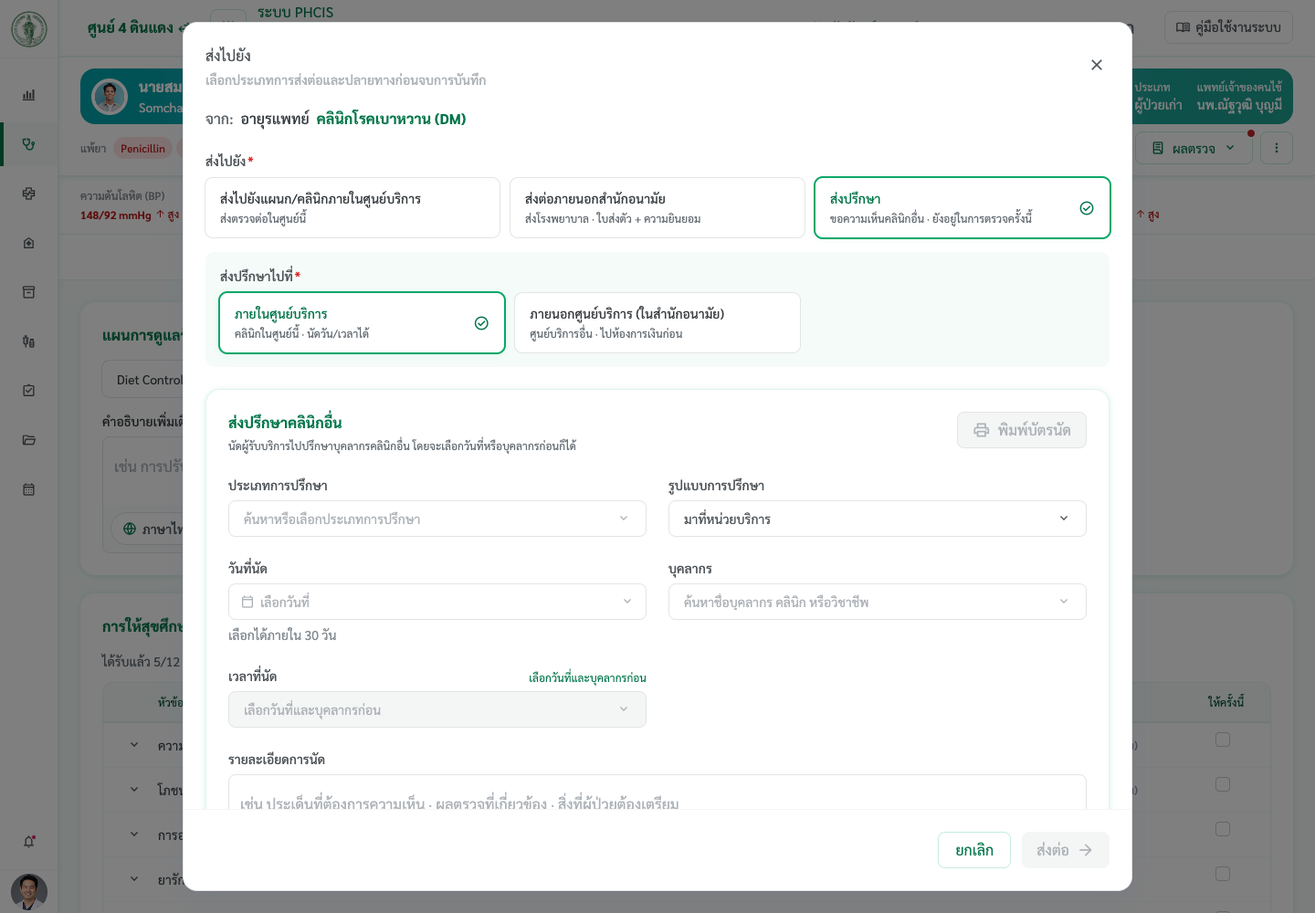
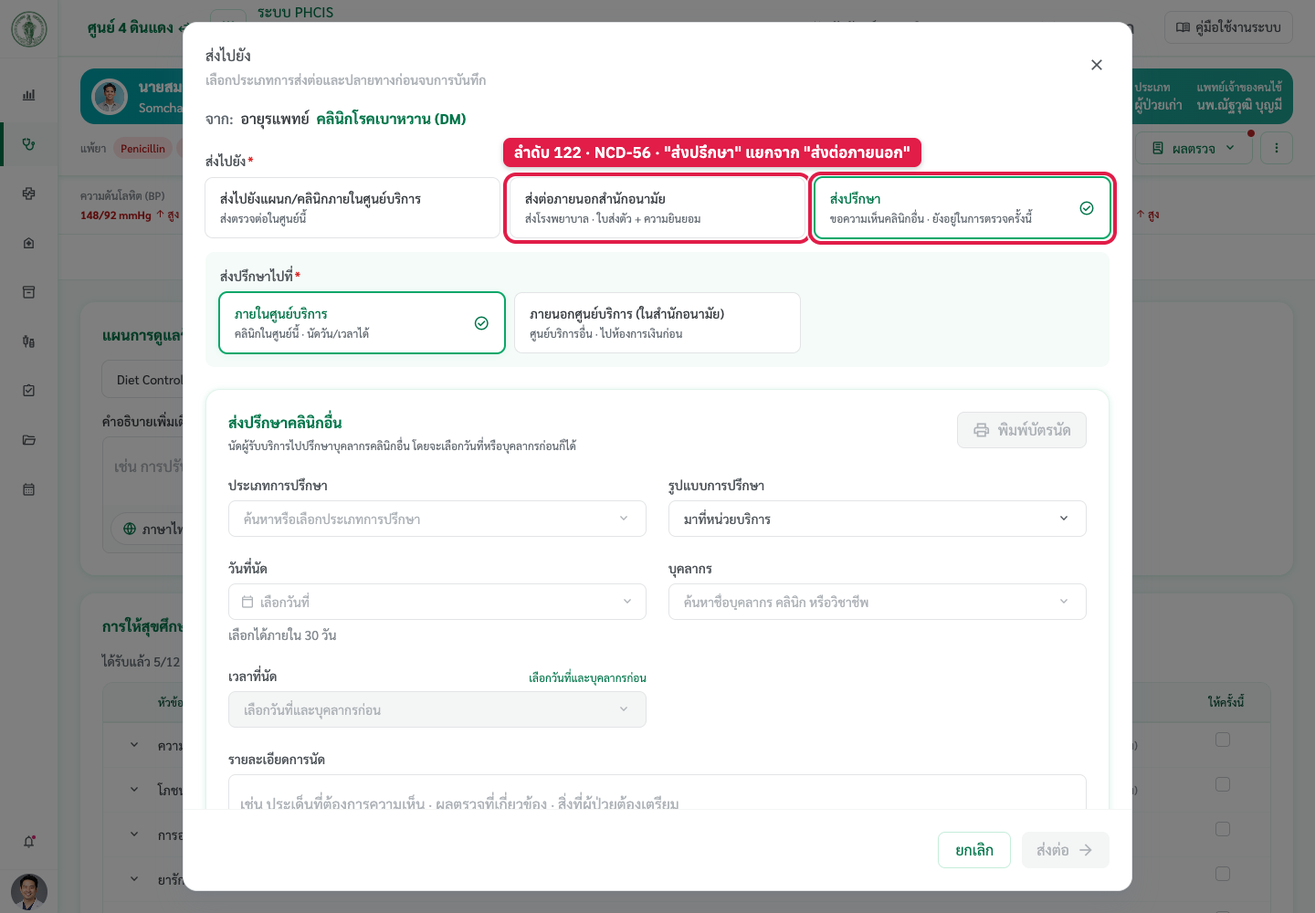
Consolidated Checklist คทง.3: ใช้ชื่อไฟล์ชีตเป็นหัวหน้า · ภาพทุกภาพวงกรอบแดง + ป้ายตรงจุดที่แก้ · ถ่ายใหม่ 105 และโปรไฟล์ · ตัดภาพหน้าการติดตามการดูแลเดิมและข้อ 133–136

Changed region(s): [[0.375, 0.124, 0.8438, 0.217], [0.375, 0.248, 0.8438, 0.279]]

diff --git a/tor-ncd-101-136.html b/tor-ncd-101-136.html
@@ -3,7 +3,7 @@
 <head>
 <meta charset="utf-8" />
 <meta name="viewport" content="width=device-width, initial-scale=1" />
-<title>TOR คทง.3 ลำดับ 101–136</title>
+<title>Consolidated Checklist คทง.3</title>
 <link rel="preconnect" href="https://fonts.googleapis.com" />
 <link rel="preconnect" href="https://fonts.gstatic.com" crossorigin />
 <link href="https://fonts.googleapis.com/css2?family=Sarabun:wght@400;500;700&display=swap" rel="stylesheet" />
@@ -47,8 +47,9 @@
 <body>
 <main class="page">
   <header>
-    <h1>TOR checklist คทง.3 ลำดับ 101–136</h1>
-    <p class="lede">คลินิกเบาหวาน/ความดัน + จุดคัดกรองกลาง (Fast Track · LMP · แพ้ยา/แพ้อาหาร · ระยะเวลาที่มีอาการ) · ข้อความใน Excel · แก้อะไร · ดูยังไงทีละขั้น · ภาพจากระบบจริง (ข้อมูลผู้ป่วยตัวอย่าง) · อัปเดต 9 พ.ย. 2569 (รอบ 4: ลำดับ 103 · 110 ตัดสินแล้ว (110ก) · ข้อ 133–136 ทีมน้องดูแล จึงไม่อยู่ในหน้านี้)</p>
+    <h1>ทะเบียนรายการปรับปรุง UI/UX ฉบับรวม (Consolidated Checklist) — คณะทำงานที่ 3 การประชุมทบทวนระบบงาน คณะทำงานที่ 3 (20 ต.ค. 69)</h1>
+    <p class="lede" style="margin-top: var(--dim-space-100, 4px);">ลำดับ 101–132</p>
+    <p class="lede">คลินิกเบาหวาน/ความดัน + จุดคัดกรองกลาง (Fast Track · LMP · แพ้ยา/แพ้อาหาร · ระยะเวลาที่มีอาการ) · ข้อความใน Excel · แก้อะไร · ดูยังไงทีละขั้น · ภาพจากระบบจริง (ข้อมูลผู้ป่วยตัวอย่าง) วงกรอบแดงตรงจุดที่แก้ · อัปเดต 9 พ.ย. 2569 (รอบ 4: ลำดับ 103 · 110 ตัดสินแล้ว (110ก) · ข้อ 133–136 ทีมน้องดูแล จึงไม่อยู่ในหน้านี้)</p>
   </header>
   <div class="legend"><span class="chip c-green">ทำแล้ว · ทดสอบแล้ว</span><span class="chip c-blue">มีอยู่แล้ว ไม่ได้แก้</span><span class="chip c-orange">ไม่ทำ (ผู้ใช้ตัดสินใจ)</span></div>
   <div class="tbl"><table><thead><tr><th>ลำดับ</th><th>รหัส</th><th>หัวข้อ</th><th>ผล</th></tr></thead><tbody><tr><td class="code"><a href="#r101">101</a></td><td class="code">NCD-44</td><td>การบันทึกสัญญาณชีพ (Vital Signs) กรณี &#x27;ไม่ได้วัด&#x27; และ &#x27;วัดไม่ได้&#x27;</td><td><span class="chip nw c-blue">มีอยู่แล้ว</span></td></tr><tr><td class="code"><a href="#r102">102</a></td><td class="code">NCD-45</td><td>ช่องทาง Fast Track ที่จุดคัดกรองกลาง/ตู้ Kiosk สำหรับผู้ป่วยเร่งด่วน</td><td><span class="chip nw c-green">ทำแล้ว · ทดสอบแล้ว</span></td></tr><tr><td class="code"><a href="#r103">103</a></td><td class="code">NCD-46</td><td>กราฟแสดงผลความดันโลหิต (BP Graph)</td><td><span class="chip nw c-blue">มีอยู่แล้ว · แก้เพิ่ม</span></td></tr><tr><td class="code"><a href="#r104">104</a></td><td class="code">OPD-07</td><td>สถานะประจำเดือน (LMP): Default &#x27;หมดประจำเดือน&#x27; จาก Visit ก่อนหน้า</td><td><span class="chip nw c-green">ทำแล้ว · ทดสอบแล้ว</span></td></tr><tr><td class="code"><a href="#r105">105</a></td><td class="code">OPD-08</td><td>แยกช่องบันทึก &#x27;แพ้ยา&#x27; และ &#x27;แพ้อาหาร&#x27; ออกจากกัน</td><td><span class="chip nw c-blue">มีอยู่แล้ว</span></td></tr><tr><td class="code"><a href="#r107">107</a></td><td class="code">NCD-46</td><td>กราฟแสดงผลความดันโลหิต (BP Graph)</td><td><span class="chip nw c-green">ทำแล้ว · ทดสอบแล้ว</span></td></tr><tr><td class="code"><a href="#r108">108</a></td><td class="code">NCD-47</td><td>การบันทึกประวัติเจ็บป่วยเดิมและประวัติครอบครัว</td><td><span class="chip nw c-blue">มีอยู่แล้ว</span></td></tr><tr><td class="code"><a href="#r109">109</a></td><td class="code">NCD-48</td><td>การปรับปรุงหน้าจอขึ้นทะเบียนโรคเรื้อรัง</td><td><span class="chip nw c-green">ทำแล้ว · ทดสอบแล้ว</span></td></tr><tr><td class="code"><a href="#r110">110</a></td><td class="code">OPD-10</td><td>ฟิลด์ระยะเวลาที่มีอาการ (Chief Complaint Duration) ในหน้าคัดกรองกลางเป็น Textbox</td><td><span class="chip nw c-blue">มีอยู่แล้ว · ตัดสินแล้ว</span></td></tr><tr><td class="code"><a href="#r111">111</a></td><td class="code">NCD-50</td><td>การลงรหัสการวินิจฉัยโรค (ICD-10)</td><td><span class="chip nw c-blue">มีอยู่แล้ว</span></td></tr><tr><td class="code"><a href="#r112">112</a></td><td class="code">NCD-51</td><td>เปิดสิทธิ์ให้พยาบาลช่วยลงรหัสโรค ICD-10 ได้</td><td><span class="chip nw c-blue">มีอยู่แล้ว</span></td></tr><tr><td class="code"><a href="#r113">113</a></td><td class="code">NCD-52</td><td>ลำดับขั้นตอนงานตรวจ: สั่งยา/หัตถการในหน้าเดียวกับตรวจและวินิจฉัย และย้ายการบันทึกนัดหมายไปหน้า &#x27;แผนการดูแลรักษา&#x27;</td><td><span class="chip nw c-green">ทำแล้ว</span></td></tr><tr><td class="code"><a href="#r114">114</a></td><td class="code">NCD-53</td><td>เหตุผลในการสั่งจ่ายและปรับเปลี่ยนยา (Medication Adjustment Reason)</td><td><span class="chip nw c-blue">มีอยู่แล้ว</span></td></tr><tr><td class="code"><a href="#r115">115</a></td><td class="code">NCD-54</td><td>หน้าหลักแสดงเฉพาะสรุปผลตรวจที่ผิดปกติ และแจ้งเตือนสีแดงกรณีตรวจตา/ตรวจเท้าผิดปกติ</td><td><span class="chip nw c-blue">มีอยู่แล้ว</span></td></tr><tr><td class="code"><a href="#r116">116</a></td><td class="code">NCD-55</td><td>แบบฟอร์มตรวจตา: เพิ่ม Plan Repeat และย้ายข้อความเงื่อนไขส่งต่อพบจักษุแพทย์มาไว้ในหน้าตรวจตา</td><td><span class="chip nw c-green">ทำแล้ว · ทดสอบแล้ว</span></td></tr><tr><td class="code"><a href="#r122">122</a></td><td class="code">NCD-56</td><td>แยกคำศัพท์ &#x27;ส่งปรึกษา&#x27; (Consultation) และ &#x27;ส่งต่อ&#x27; (Referral) เป็น 2 ระบบ</td><td><span class="chip nw c-blue">มีอยู่แล้ว</span></td></tr><tr><td class="code"><a href="#r132">132</a></td><td class="code">NCD-57</td><td>หน้าจอรายงานคลินิกเบาหวาน/ความดัน: ตัดตัวเลขข้อหัวข้อ (เช่น 5, 8.1.1) ออก</td><td><span class="chip nw c-green">ทำแล้ว · ทดสอบแล้ว</span></td></tr></tbody></table></div>
@@ -82,7 +83,7 @@
 • ปรับสเกลกราฟอัตโนมัติ (Auto Scale)
 • กดขยายเต็มหน้าจอได้
 • แยกแสดงผลรายเดือน (12 เดือน)
-• เรียกดูข้อมูลย้อนหลังข้ามปีงบประมาณได้</blockquote><hr><p class="gh">แก้อะไร</p><p>เพิ่มมุมมอง &quot;รายเดือน (12 เดือน)&quot; · ปุ่มขยายกราฟเต็มจอ · ปุ่ม &quot;ดูกราฟความดันเต็มจอ&quot; ในหน้าการติดตามการดูแล · ปรับสเกลอัตโนมัติมีอยู่เดิม</p><hr><p class="gh">ดูยังไง</p><ol class="steps"><li>เข้าระบบเป็นแพทย์คลินิกเบาหวาน</li><li>เปิดหน้าบันทึกผู้ป่วย HN 67-00001 (/clinic/diabetes/record)</li><li>เอาเมาส์ชี้ค่า &quot;ความดันโลหิต (BP)&quot; บนแถบสัญญาณชีพ → กล่องกราฟทั้งปีขึ้น</li><li>กด &quot;รายเดือน (12 เดือน)&quot; เพื่อดูรายเดือน · เลือก &quot;ปี พ.ศ.&quot; เพื่อย้อนหลัง</li><li>กดไอคอนขยาย ⤢ ข้างปุ่ม &quot;วัดซ้ำ&quot; → กราฟเต็มจอ</li><li>อีกทาง: ในหน้าบันทึกเดียวกัน กด ⋮ → &quot;การติดตามการดูแล&quot; → ปุ่ม &quot;ความดันโลหิต&quot; → &quot;ดูกราฟความดันเต็มจอ</li></ol><hr><p class="gh">หมายเหตุ</p><p>ย้อนหลังเป็นปี พ.ศ. (ม.ค.–ธ.ค.) 10 ปี ไม่ใช่ปีงบประมาณ ตามที่ผู้ใช้กำหนด 22/25 ต.ค. 69 (ใหม่กว่ามติ 20 ต.ค. ซึ่งเขียนว่า &quot;ข้ามปี&quot;)</p><hr><p class="gh">ภาพหน้าจอ</p><div class="shots"><figure><a href="tor-shots/ncd-101-136/107-bp-graph-tooltip.png" target="_blank" rel="noopener"><img src="tor-shots/ncd-101-136/107-bp-graph-tooltip.png" alt="ชี้ค่า BP บนแถบสัญญาณชีพ · ปุ่มรายครั้ง/รายเดือน · ปุ่มขยาย ⤢"></a><figcaption>ชี้ค่า BP บนแถบสัญญาณชีพ · ปุ่มรายครั้ง/รายเดือน · ปุ่มขยาย ⤢</figcaption></figure><figure><a href="tor-shots/ncd-101-136/107-bp-graph-fullscreen.png" target="_blank" rel="noopener"><img src="tor-shots/ncd-101-136/107-bp-graph-fullscreen.png" alt="กราฟเต็มจอ มุมมองรายเดือน (12 เดือน)"></a><figcaption>กราฟเต็มจอ มุมมองรายเดือน (12 เดือน)</figcaption></figure><figure><a href="tor-shots/ncd-101-136/107-followup-bp-button.png" target="_blank" rel="noopener"><img src="tor-shots/ncd-101-136/107-followup-bp-button.png" alt="หน้าการติดตามการดูแล · ปุ่ม &quot;ดูกราฟความดันเต็มจอ&quot;"></a><figcaption>หน้าการติดตามการดูแล · ปุ่ม &quot;ดูกราฟความดันเต็มจอ&quot;</figcaption></figure></div></div><div class="card" id="r108"><div class="head"><div><h2>ลำดับ 108 · NCD-47</h2><p class="sum">การบันทึกประวัติเจ็บป่วยเดิมและประวัติครอบครัว</p></div><span class="chip c-blue">มีอยู่แล้ว</span></div><hr><p class="gh">ข้อความใน Excel</p><blockquote>การบันทึกประวัติเจ็บป่วยเดิมและประวัติครอบครัว : เห็นควรให้เพิ่มช่องบันทึกประวัติผู้ป่วยในอดีต (Patient History) และประวัติครอบครัว (Family History) ให้สามารถระบุรายละเอียดพร้อมเชื่อมโยงไปยังผังเครือญาติ (Family Tree) โดยให้ระบบดึงข้อมูลประวัติเดิมมาแสดงโดยอัตโนมัติทุกครั้ง</blockquote><p class="sum">ข้อความในชีตถูกตัดตอนส่งมา — ข้อความนี้มาจากรายงานประชุม คทง.3 ครั้งที่ 5/2569 (20 ต.ค. 69) หน้า 3 ข้อ 2.2</p><hr><p class="gh">แก้อะไร</p><p>ไม่ได้แก้ (ทำไว้ตั้งแต่ 22 ต.ค. 69): ช่อง Past History · Family History + ปุ่มดูข้อมูลครอบครัว</p><hr><p class="gh">ดูยังไง</p><ol class="steps"><li>เข้าระบบเป็นแพทย์คลินิกเบาหวาน</li><li>เปิดหน้าบันทึกผู้ป่วย HN 67-00001</li><li>กด &quot;ถัดไป: ตรวจและวินิจฉัย</li><li>แท็บ &quot;บันทึกการตรวจรักษา&quot; → ช่อง &quot;ประวัติการเจ็บป่วยในอดีต (Past History)&quot; และ &quot;ประวัติครอบครัว (Family History)&quot; · ปุ่ม &quot;ดูข้อมูลครอบครัว</li></ol><hr><p class="gh">หมายเหตุ</p><p>ข้อความในชีตถูกตัดตอนส่งมา ใช้ข้อความรายงานประชุม หน้า 3 ข้อ 2.2</p><hr><p class="gh">ภาพหน้าจอ</p><div class="shots"><figure><a href="tor-shots/ncd-101-136/108-past-family-history.png" target="_blank" rel="noopener"><img src="tor-shots/ncd-101-136/108-past-family-history.png" alt="Past History · Family History + &quot;ดูข้อมูลครอบครัว&quot;"></a><figcaption>Past History · Family History + &quot;ดูข้อมูลครอบครัว&quot;</figcaption></figure></div></div><div class="card" id="r109"><div class="head"><div><h2>ลำดับ 109 · NCD-48</h2><p class="sum">การปรับปรุงหน้าจอขึ้นทะเบียนโรคเรื้อรัง</p></div><span class="chip c-green">ทำแล้ว · ทดสอบแล้ว</span></div><hr><p class="gh">ข้อความใน Excel</p><blockquote>การปรับปรุงหน้าจอขึ้นทะเบียนโรคเรื้อรัง : เห็นควรให้เปลี่ยนชื่อหน้าจอเป็น &quot;ขึ้นทะเบียนผู้ป่วยโรคเบาหวาน/ความดันโลหิตสูง&quot; พร้อมปรับแก้ไขช่องข้อมูล &quot;ปีที่วินิจฉัย&quot; เป็น &quot;พ.ศ. ที่วินิจฉัย&quot; โดยจัดวางไว้ภายใต้หัวข้อประเภทผู้ป่วย รูปแบบการกรอกข้อมูลเป็นรายการตัวเลือก (Dropdown) เพื่อให้สามารถคำนวณตัวเลข พ.ศ. ได้ และให้ระบบแสดงสรุปจำนวนปีที่เจ็บป่วยด้วยโรคดังกล่าวโดยอัตโนมัติ</blockquote><p class="sum">ข้อความในชีตถูกตัดตอนส่งมา — ข้อความนี้มาจากรายงานประชุม คทง.3 ครั้งที่ 5/2569 หน้า 3 ข้อ 2.2</p><hr><p class="gh">แก้อะไร</p><p>ชื่อป๊อปอัปเป็น &quot;ขึ้นทะเบียนผู้ป่วยโรคเบาหวาน/ความดันโลหิตสูง&quot; · ช่อง &quot;พ.ศ. ที่วินิจฉัย&quot; (dropdown) ต่อจากประเภทผู้ป่วย · แสดง &quot;ป่วยมาแล้ว N ปี&quot; อัตโนมัติ</p><hr><p class="gh">ดูยังไง</p><ol class="steps"><li>เข้าระบบเป็นแพทย์คลินิกเบาหวาน</li><li>เปิดหน้าบันทึกผู้ป่วย HN 67-00001</li><li>กดปุ่ม &quot;ขึ้นทะเบียนผู้ป่วยใหม่&quot; บนการ์ดผู้ป่วย</li><li>ดูหัวป๊อปอัป และช่อง &quot;พ.ศ. ที่วินิจฉัย&quot; ใต้ประเภทผู้ป่วย → เลือกปีแล้วมีข้อความ &quot;ป่วยมาแล้ว N ปี</li></ol><hr><p class="gh">หมายเหตุ</p><p>ข้อความในชีตถูกตัดตอนส่งมา ใช้ข้อความรายงานประชุม หน้า 3 ข้อ 2.2</p><hr><p class="gh">ภาพหน้าจอ</p><div class="shots"><figure><a href="tor-shots/ncd-101-136/109-registration-popup.png" target="_blank" rel="noopener"><img src="tor-shots/ncd-101-136/109-registration-popup.png" alt="ป๊อปอัปขึ้นทะเบียน · &quot;พ.ศ. ที่วินิจฉัย&quot; + ป่วยมาแล้ว N ปี"></a><figcaption>ป๊อปอัปขึ้นทะเบียน · &quot;พ.ศ. ที่วินิจฉัย&quot; + ป่วยมาแล้ว N ปี</figcaption></figure></div></div><div class="card" id="r110"><div class="head"><div><h2>ลำดับ 110 · OPD-10</h2><p class="sum">ฟิลด์ระยะเวลาที่มีอาการ (Chief Complaint Duration) ในหน้าคัดกรองกลางเป็น Textbox</p></div><span class="chip c-blue">มีอยู่แล้ว · ตัดสินแล้ว (110ก)</span></div><hr><p class="gh">ข้อความใน Excel</p><blockquote>ฟิลด์ระยะเวลาที่มีอาการ (Chief Complaint Duration) ในหน้าคัดกรองกลางเป็น Textbox
+• เรียกดูข้อมูลย้อนหลังข้ามปีงบประมาณได้</blockquote><hr><p class="gh">แก้อะไร</p><p>เพิ่มมุมมอง &quot;รายเดือน (12 เดือน)&quot; · ปุ่มขยายกราฟเต็มจอ · ปุ่ม &quot;ดูกราฟความดันเต็มจอ&quot; ในหน้าการติดตามการดูแล · ปรับสเกลอัตโนมัติมีอยู่เดิม</p><hr><p class="gh">ดูยังไง</p><ol class="steps"><li>เข้าระบบเป็นแพทย์คลินิกเบาหวาน</li><li>เปิดหน้าบันทึกผู้ป่วย HN 67-00001 (/clinic/diabetes/record)</li><li>เอาเมาส์ชี้ค่า &quot;ความดันโลหิต (BP)&quot; บนแถบสัญญาณชีพ → กล่องกราฟทั้งปีขึ้น</li><li>กด &quot;รายเดือน (12 เดือน)&quot; เพื่อดูรายเดือน · เลือก &quot;ปี พ.ศ.&quot; เพื่อย้อนหลัง</li><li>กดไอคอนขยาย ⤢ ข้างปุ่ม &quot;วัดซ้ำ&quot; → กราฟเต็มจอ</li><li>อีกทาง: ในหน้าบันทึกเดียวกัน กด ⋮ → &quot;การติดตามการดูแล&quot; → ปุ่ม &quot;ความดันโลหิต&quot; → &quot;ดูกราฟความดันเต็มจอ</li></ol><hr><p class="gh">หมายเหตุ</p><p>ย้อนหลังเป็นปี พ.ศ. (ม.ค.–ธ.ค.) 10 ปี ไม่ใช่ปีงบประมาณ ตามที่ผู้ใช้กำหนด 22/25 ต.ค. 69 (ใหม่กว่ามติ 20 ต.ค. ซึ่งเขียนว่า &quot;ข้ามปี&quot;)</p><hr><p class="gh">ภาพหน้าจอ</p><div class="shots"><figure><a href="tor-shots/ncd-101-136/107-bp-graph-tooltip.png" target="_blank" rel="noopener"><img src="tor-shots/ncd-101-136/107-bp-graph-tooltip.png" alt="ชี้ค่า BP บนแถบสัญญาณชีพ · ปุ่มรายครั้ง/รายเดือน · ปุ่มขยาย ⤢"></a><figcaption>ชี้ค่า BP บนแถบสัญญาณชีพ · ปุ่มรายครั้ง/รายเดือน · ปุ่มขยาย ⤢</figcaption></figure><figure><a href="tor-shots/ncd-101-136/107-bp-graph-fullscreen.png" target="_blank" rel="noopener"><img src="tor-shots/ncd-101-136/107-bp-graph-fullscreen.png" alt="กราฟเต็มจอ มุมมองรายเดือน (12 เดือน)"></a><figcaption>กราฟเต็มจอ มุมมองรายเดือน (12 เดือน)</figcaption></figure></div></div><div class="card" id="r108"><div class="head"><div><h2>ลำดับ 108 · NCD-47</h2><p class="sum">การบันทึกประวัติเจ็บป่วยเดิมและประวัติครอบครัว</p></div><span class="chip c-blue">มีอยู่แล้ว</span></div><hr><p class="gh">ข้อความใน Excel</p><blockquote>การบันทึกประวัติเจ็บป่วยเดิมและประวัติครอบครัว : เห็นควรให้เพิ่มช่องบันทึกประวัติผู้ป่วยในอดีต (Patient History) และประวัติครอบครัว (Family History) ให้สามารถระบุรายละเอียดพร้อมเชื่อมโยงไปยังผังเครือญาติ (Family Tree) โดยให้ระบบดึงข้อมูลประวัติเดิมมาแสดงโดยอัตโนมัติทุกครั้ง</blockquote><p class="sum">ข้อความในชีตถูกตัดตอนส่งมา — ข้อความนี้มาจากรายงานประชุม คทง.3 ครั้งที่ 5/2569 (20 ต.ค. 69) หน้า 3 ข้อ 2.2</p><hr><p class="gh">แก้อะไร</p><p>ไม่ได้แก้ (ทำไว้ตั้งแต่ 22 ต.ค. 69): ช่อง Past History · Family History + ปุ่มดูข้อมูลครอบครัว</p><hr><p class="gh">ดูยังไง</p><ol class="steps"><li>เข้าระบบเป็นแพทย์คลินิกเบาหวาน</li><li>เปิดหน้าบันทึกผู้ป่วย HN 67-00001</li><li>กด &quot;ถัดไป: ตรวจและวินิจฉัย</li><li>แท็บ &quot;บันทึกการตรวจรักษา&quot; → ช่อง &quot;ประวัติการเจ็บป่วยในอดีต (Past History)&quot; และ &quot;ประวัติครอบครัว (Family History)&quot; · ปุ่ม &quot;ดูข้อมูลครอบครัว</li></ol><hr><p class="gh">หมายเหตุ</p><p>ข้อความในชีตถูกตัดตอนส่งมา ใช้ข้อความรายงานประชุม หน้า 3 ข้อ 2.2</p><hr><p class="gh">ภาพหน้าจอ</p><div class="shots"><figure><a href="tor-shots/ncd-101-136/108-past-family-history.png" target="_blank" rel="noopener"><img src="tor-shots/ncd-101-136/108-past-family-history.png" alt="Past History · Family History + &quot;ดูข้อมูลครอบครัว&quot;"></a><figcaption>Past History · Family History + &quot;ดูข้อมูลครอบครัว&quot;</figcaption></figure></div></div><div class="card" id="r109"><div class="head"><div><h2>ลำดับ 109 · NCD-48</h2><p class="sum">การปรับปรุงหน้าจอขึ้นทะเบียนโรคเรื้อรัง</p></div><span class="chip c-green">ทำแล้ว · ทดสอบแล้ว</span></div><hr><p class="gh">ข้อความใน Excel</p><blockquote>การปรับปรุงหน้าจอขึ้นทะเบียนโรคเรื้อรัง : เห็นควรให้เปลี่ยนชื่อหน้าจอเป็น &quot;ขึ้นทะเบียนผู้ป่วยโรคเบาหวาน/ความดันโลหิตสูง&quot; พร้อมปรับแก้ไขช่องข้อมูล &quot;ปีที่วินิจฉัย&quot; เป็น &quot;พ.ศ. ที่วินิจฉัย&quot; โดยจัดวางไว้ภายใต้หัวข้อประเภทผู้ป่วย รูปแบบการกรอกข้อมูลเป็นรายการตัวเลือก (Dropdown) เพื่อให้สามารถคำนวณตัวเลข พ.ศ. ได้ และให้ระบบแสดงสรุปจำนวนปีที่เจ็บป่วยด้วยโรคดังกล่าวโดยอัตโนมัติ</blockquote><p class="sum">ข้อความในชีตถูกตัดตอนส่งมา — ข้อความนี้มาจากรายงานประชุม คทง.3 ครั้งที่ 5/2569 หน้า 3 ข้อ 2.2</p><hr><p class="gh">แก้อะไร</p><p>ชื่อป๊อปอัปเป็น &quot;ขึ้นทะเบียนผู้ป่วยโรคเบาหวาน/ความดันโลหิตสูง&quot; · ช่อง &quot;พ.ศ. ที่วินิจฉัย&quot; (dropdown) ต่อจากประเภทผู้ป่วย · แสดง &quot;ป่วยมาแล้ว N ปี&quot; อัตโนมัติ</p><hr><p class="gh">ดูยังไง</p><ol class="steps"><li>เข้าระบบเป็นแพทย์คลินิกเบาหวาน</li><li>เปิดหน้าบันทึกผู้ป่วย HN 67-00001</li><li>กดปุ่ม &quot;ขึ้นทะเบียนผู้ป่วยใหม่&quot; บนการ์ดผู้ป่วย</li><li>ดูหัวป๊อปอัป และช่อง &quot;พ.ศ. ที่วินิจฉัย&quot; ใต้ประเภทผู้ป่วย → เลือกปีแล้วมีข้อความ &quot;ป่วยมาแล้ว N ปี</li></ol><hr><p class="gh">หมายเหตุ</p><p>ข้อความในชีตถูกตัดตอนส่งมา ใช้ข้อความรายงานประชุม หน้า 3 ข้อ 2.2</p><hr><p class="gh">ภาพหน้าจอ</p><div class="shots"><figure><a href="tor-shots/ncd-101-136/109-registration-popup.png" target="_blank" rel="noopener"><img src="tor-shots/ncd-101-136/109-registration-popup.png" alt="ป๊อปอัปขึ้นทะเบียน · &quot;พ.ศ. ที่วินิจฉัย&quot; + ป่วยมาแล้ว N ปี"></a><figcaption>ป๊อปอัปขึ้นทะเบียน · &quot;พ.ศ. ที่วินิจฉัย&quot; + ป่วยมาแล้ว N ปี</figcaption></figure></div></div><div class="card" id="r110"><div class="head"><div><h2>ลำดับ 110 · OPD-10</h2><p class="sum">ฟิลด์ระยะเวลาที่มีอาการ (Chief Complaint Duration) ในหน้าคัดกรองกลางเป็น Textbox</p></div><span class="chip c-blue">มีอยู่แล้ว · ตัดสินแล้ว (110ก)</span></div><hr><p class="gh">ข้อความใน Excel</p><blockquote>ฟิลด์ระยะเวลาที่มีอาการ (Chief Complaint Duration) ในหน้าคัดกรองกลางเป็น Textbox
 หน้าจอ: หน้าคัดกรองกลาง
 รายละเอียด:
 • รองรับกรณีผู้ป่วยมารับยาต่อเนื่อง</blockquote><p class="sum">ตรวจเทียบ TOR: TOR ไม่กำหนดรูปแบบช่อง ต้องสรุปรูปแบบเดียวทั้งระบบ (ขัดกับ SCR-11 ของ คทง.6)</p><hr><p class="gh">แก้อะไร</p><p>ฟังก์ชันมีอยู่แล้ว (ผู้ใช้ 22 ต.ค. 69): &quot;ระยะเวลาที่มีอาการ&quot; ที่คัดกรองกลางเป็นช่องพิมพ์ข้อความ 1 ช่อง (มีคำแนะนำ เช่น 3 วัน · เป็นๆ หายๆ) รองรับผู้ป่วยรับยาต่อเนื่อง · ครั้งนี้ไม่ได้แก้โค้ด</p><hr><p class="gh">ดูยังไง</p><ol class="steps"><li>เข้าระบบเป็นพยาบาลคัดกรองกลาง</li><li>เปิดเมนูคัดกรอง (/opd/queue) แล้วกดผู้ป่วยรายใดก็ได้</li><li>ขั้น &quot;ซักประวัติ&quot; → กดเปิดการ์ด &quot;ซักประวัติ</li><li>ช่อง &quot;ระยะเวลาที่มีอาการ&quot; = กล่องข้อความ พิมพ์อะไรก็ได้</li></ol><hr><p class="gh">หมายเหตุ</p><p>ขัดกับ SCR-11 (คทง.6 · 18 ก.ย. 69 ตัวเลข + หน่วย) และฝั่งแพทย์ EMR-02 (WG1 22 ต.ค. 69 · ตัวเลข + หน่วย นาที–ปี) · ตอนนี้ระบบใช้ 2 แบบ: พยาบาล = ข้อความ · แพทย์ = ตัวเลข+หน่วย (ระบบแปลงข้อความพยาบาลเป็นตัวเลขให้แพทย์เมื่ออ่านได้) — ผู้ใช้เลือก 110ก (9 พ.ย. 69): คงไว้ 2 แบบนี้</p><hr><p class="gh">ภาพหน้าจอ</p><div class="shots"><figure><a href="tor-shots/ncd-101-136/110-duration-textbox.png" target="_blank" rel="noopener"><img src="tor-shots/ncd-101-136/110-duration-textbox.png" alt="110-duration-textbox.png"></a><figcaption>110-duration-textbox.png</figcaption></figure></div></div><div class="card" id="r111"><div class="head"><div><h2>ลำดับ 111 · NCD-50</h2><p class="sum">การลงรหัสการวินิจฉัยโรค (ICD-10)</p></div><span class="chip c-blue">มีอยู่แล้ว</span></div><hr><p class="gh">ข้อความใน Excel</p><blockquote>การลงรหัสการวินิจฉัยโรค (ICD-10) : ปรับเพิ่มฟังก์ชันให้รองรับการค้นหารหัสโรคด้วยชื่อโรค อนุญาตให้พยาบาลสามารถช่วยบันทึกรหัสโรคเบื้องต้นได้ และกำหนดเงื่อนไขตรวจสอบ เพื่อป้องกันการเลือกรหัส ICD-10 ซ้ำซ้อนการเข้ารับบริการ (Visit) เดียวกัน</blockquote><p class="sum">ข้อความในชีตถูกตัดตอนส่งมา — ข้อความนี้มาจากรายงานประชุม คทง.3 ครั้งที่ 5/2569 หน้า 3 ข้อ 2.3</p><hr><p class="gh">แก้อะไร</p><p>ไม่ได้แก้: ค้นรหัส ICD-10 ด้วยชื่อโรคได้</p><hr><p class="gh">ดูยังไง</p><ol class="steps"><li>เข้าระบบเป็นแพทย์คลินิกเบาหวาน</li><li>เปิดหน้าบันทึกผู้ป่วย HN 67-00001</li><li>กด &quot;ถัดไป: ตรวจและวินิจฉัย</li><li>การ์ดวินิจฉัย → พิมพ์ชื่อโรค (เช่น เบาหวาน) ในช่องค้นรหัส ICD-10</li></ol><hr><p class="gh">หมายเหตุ</p><p>ข้อความในชีตถูกตัดตอนส่งมา ใช้ข้อความรายงานประชุม หน้า 3 ข้อ 2.3</p><hr><p class="gh">ภาพหน้าจอ</p><div class="shots"><figure><a href="tor-shots/ncd-101-136/111-icd10-search-by-name.png" target="_blank" rel="noopener"><img src="tor-shots/ncd-101-136/111-icd10-search-by-name.png" alt="พิมพ์ &quot;เบาหวาน&quot; ในช่องค้นรหัส ICD-10"></a><figcaption>พิมพ์ &quot;เบาหวาน&quot; ในช่องค้นรหัส ICD-10</figcaption></figure></div></div><div class="card" id="r112"><div class="head"><div><h2>ลำดับ 112 · NCD-51</h2><p class="sum">เปิดสิทธิ์ให้พยาบาลช่วยลงรหัสโรค ICD-10 ได้</p></div><span class="chip c-blue">มีอยู่แล้ว</span></div><hr><p class="gh">ข้อความใน Excel</p><blockquote>เปิดสิทธิ์ให้พยาบาลช่วยลงรหัสโรค ICD-10 ได้
